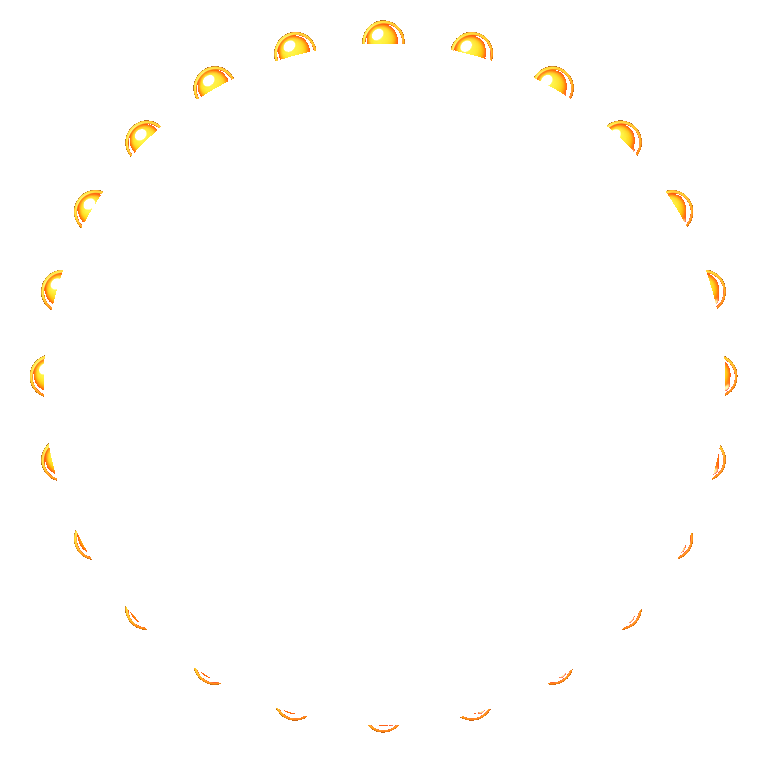
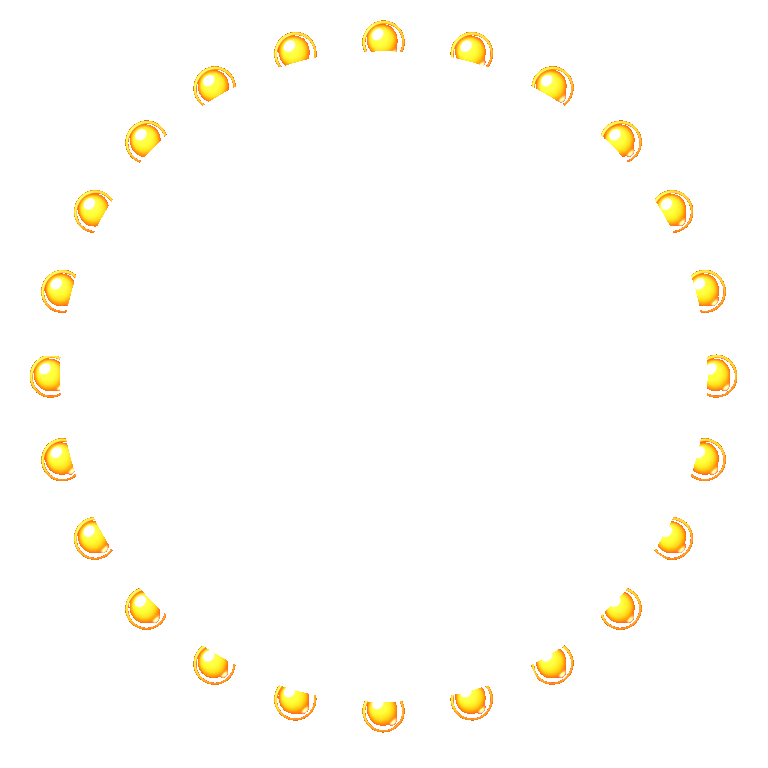
Line up all 24 gold bulbs so every side blinks

diff --git a/src/components/wheel-page.tsx b/src/components/wheel-page.tsx
@@ -126,15 +126,15 @@ export function WheelPage({ onClose }: { onClose: () => void }) {
           <circle cx="100" cy="100" r="18" fill="url(#hubGem)" stroke="#5a2010" strokeWidth="2" />
         </svg>
         <img
-          src="/wheel/rim.png?v=2"
+          src="/wheel/rim.png?v=4"
           alt=""
-          className="pointer-events-none absolute inset-0 z-10 size-full object-contain"
+          className="pointer-events-none absolute inset-0 z-10 size-full"
           crossOrigin="anonymous"
         />
         <img
-          src="/wheel/rim-lights.png?v=1"
+          src="/wheel/rim-lights.png?v=4"
           alt=""
-          className="wheel-lights pointer-events-none absolute inset-0 z-[11] size-full object-contain"
+          className="wheel-lights pointer-events-none absolute inset-0 z-[11] size-full"
           crossOrigin="anonymous"
         />
         <div className="pointer-events-none absolute top-[7%] left-1/2 z-20 -translate-x-1/2 drop-shadow">
